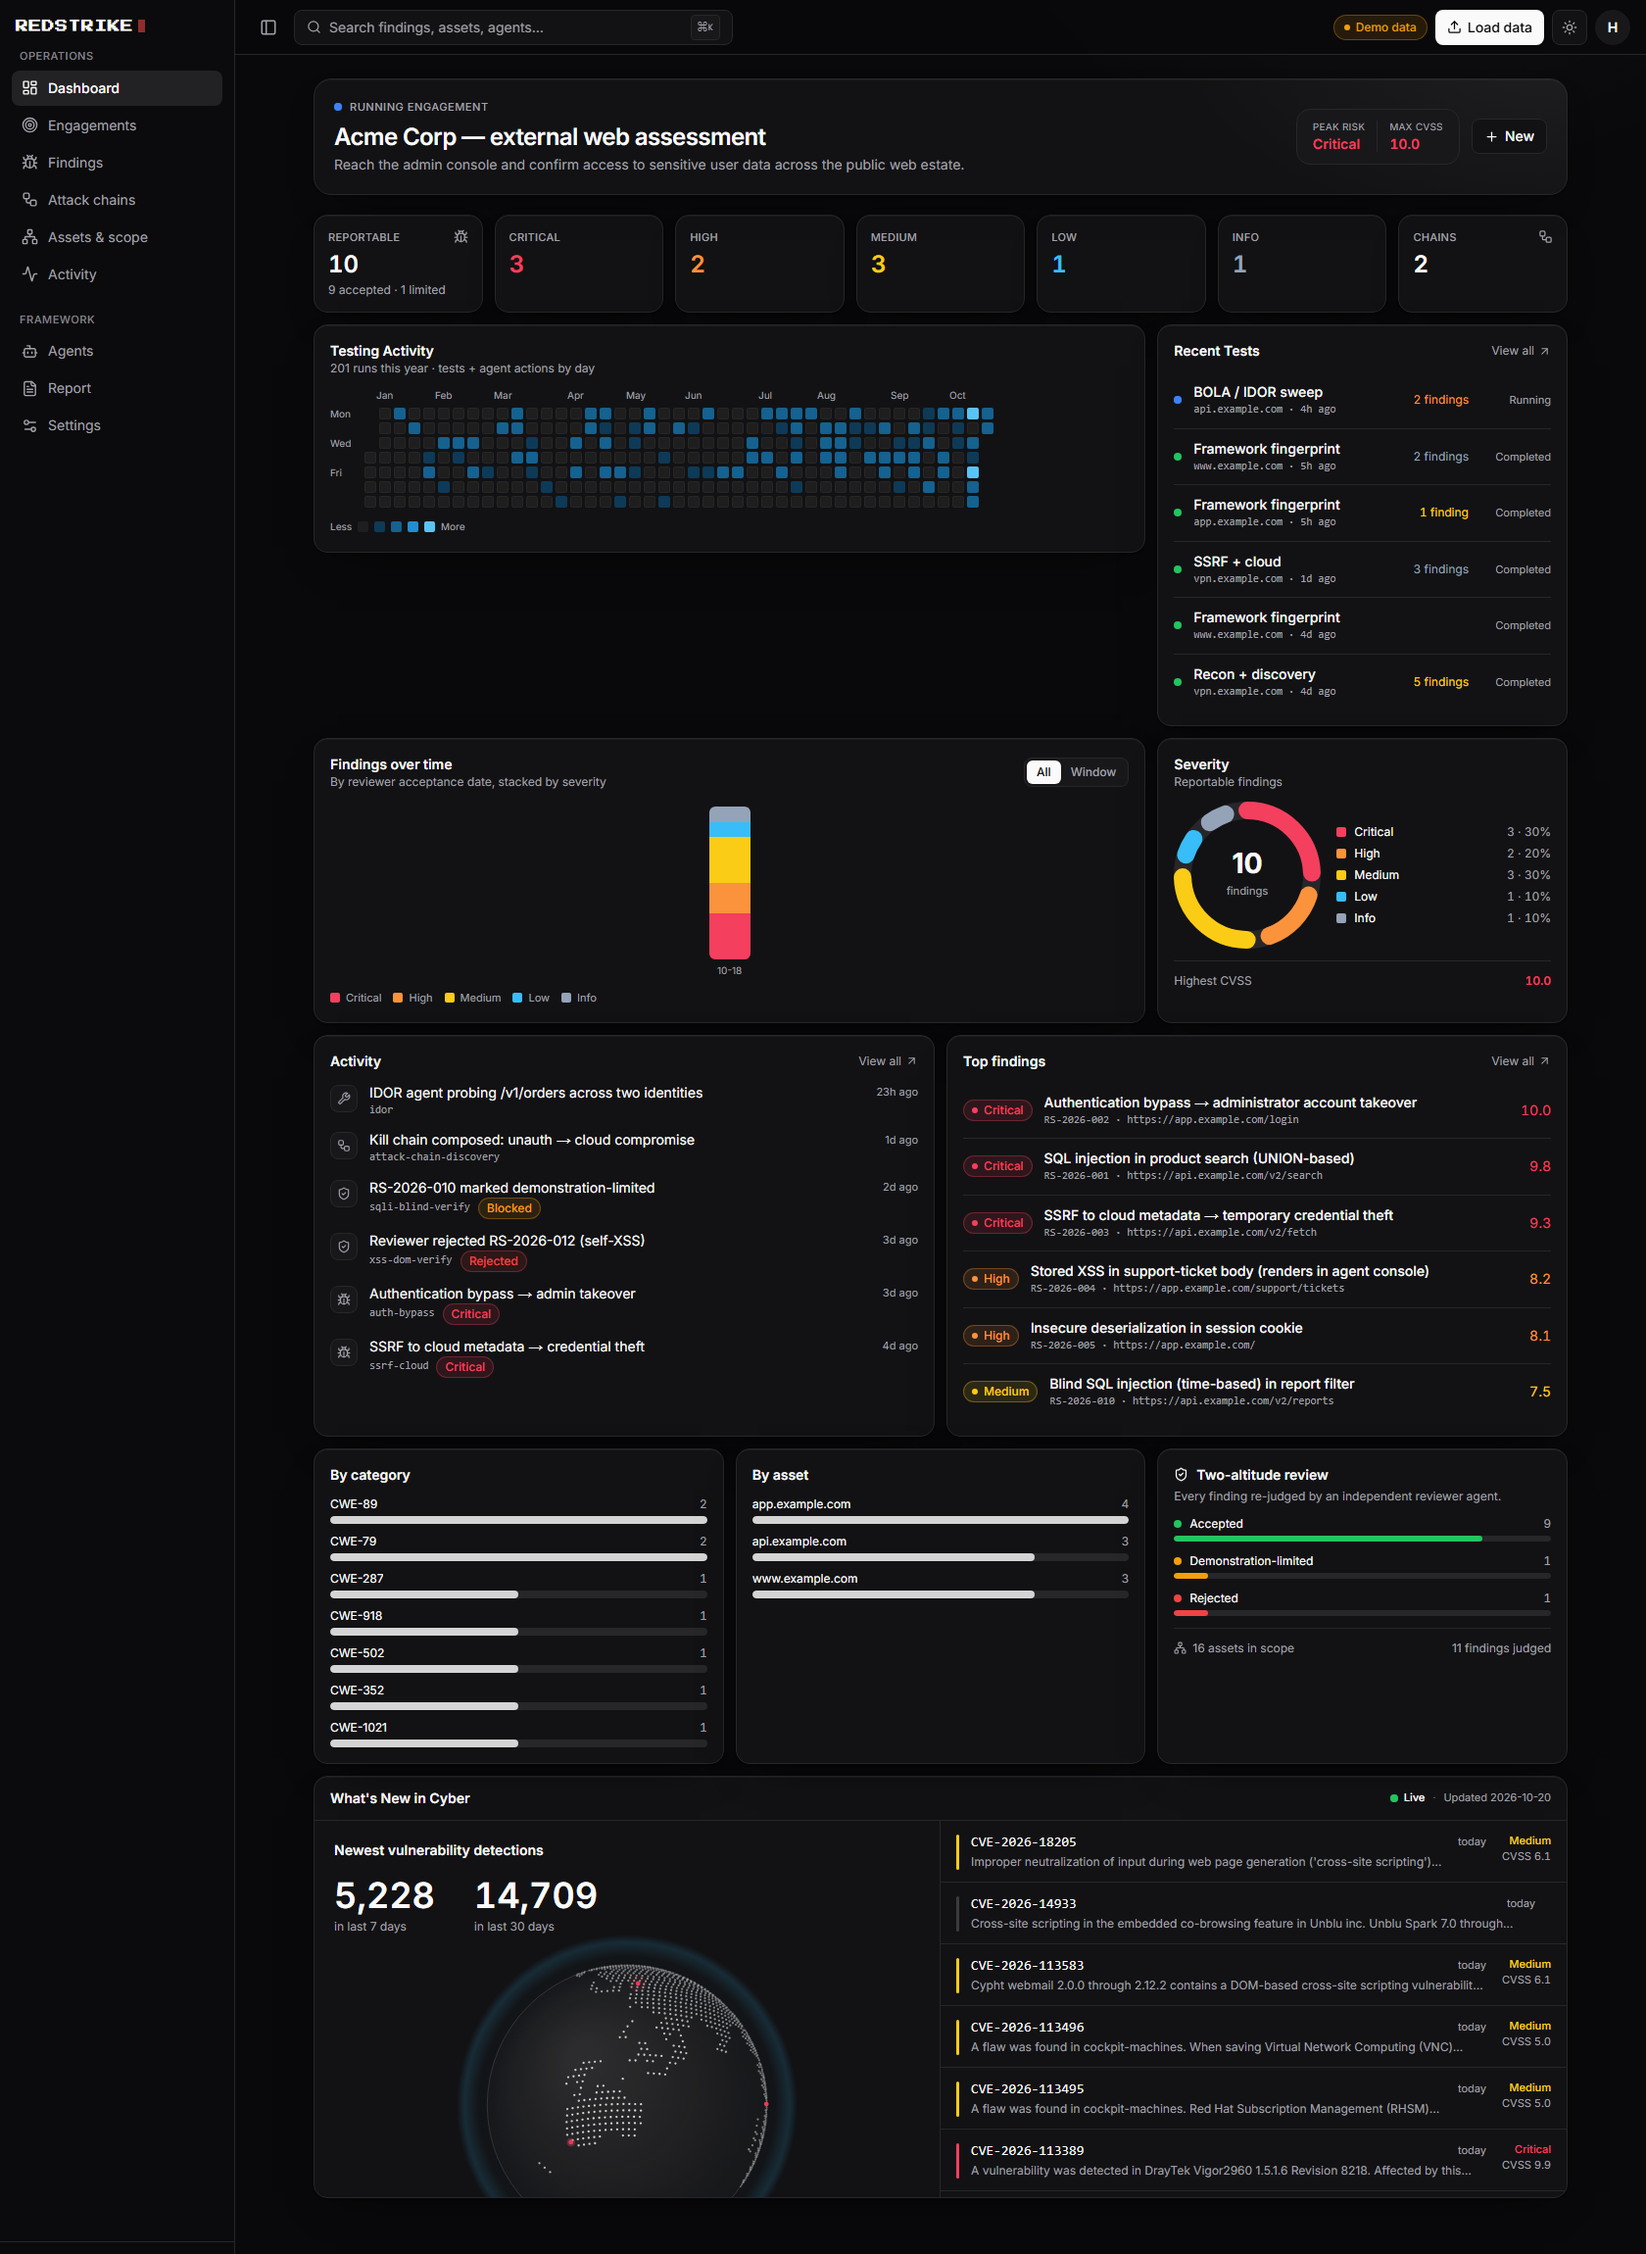
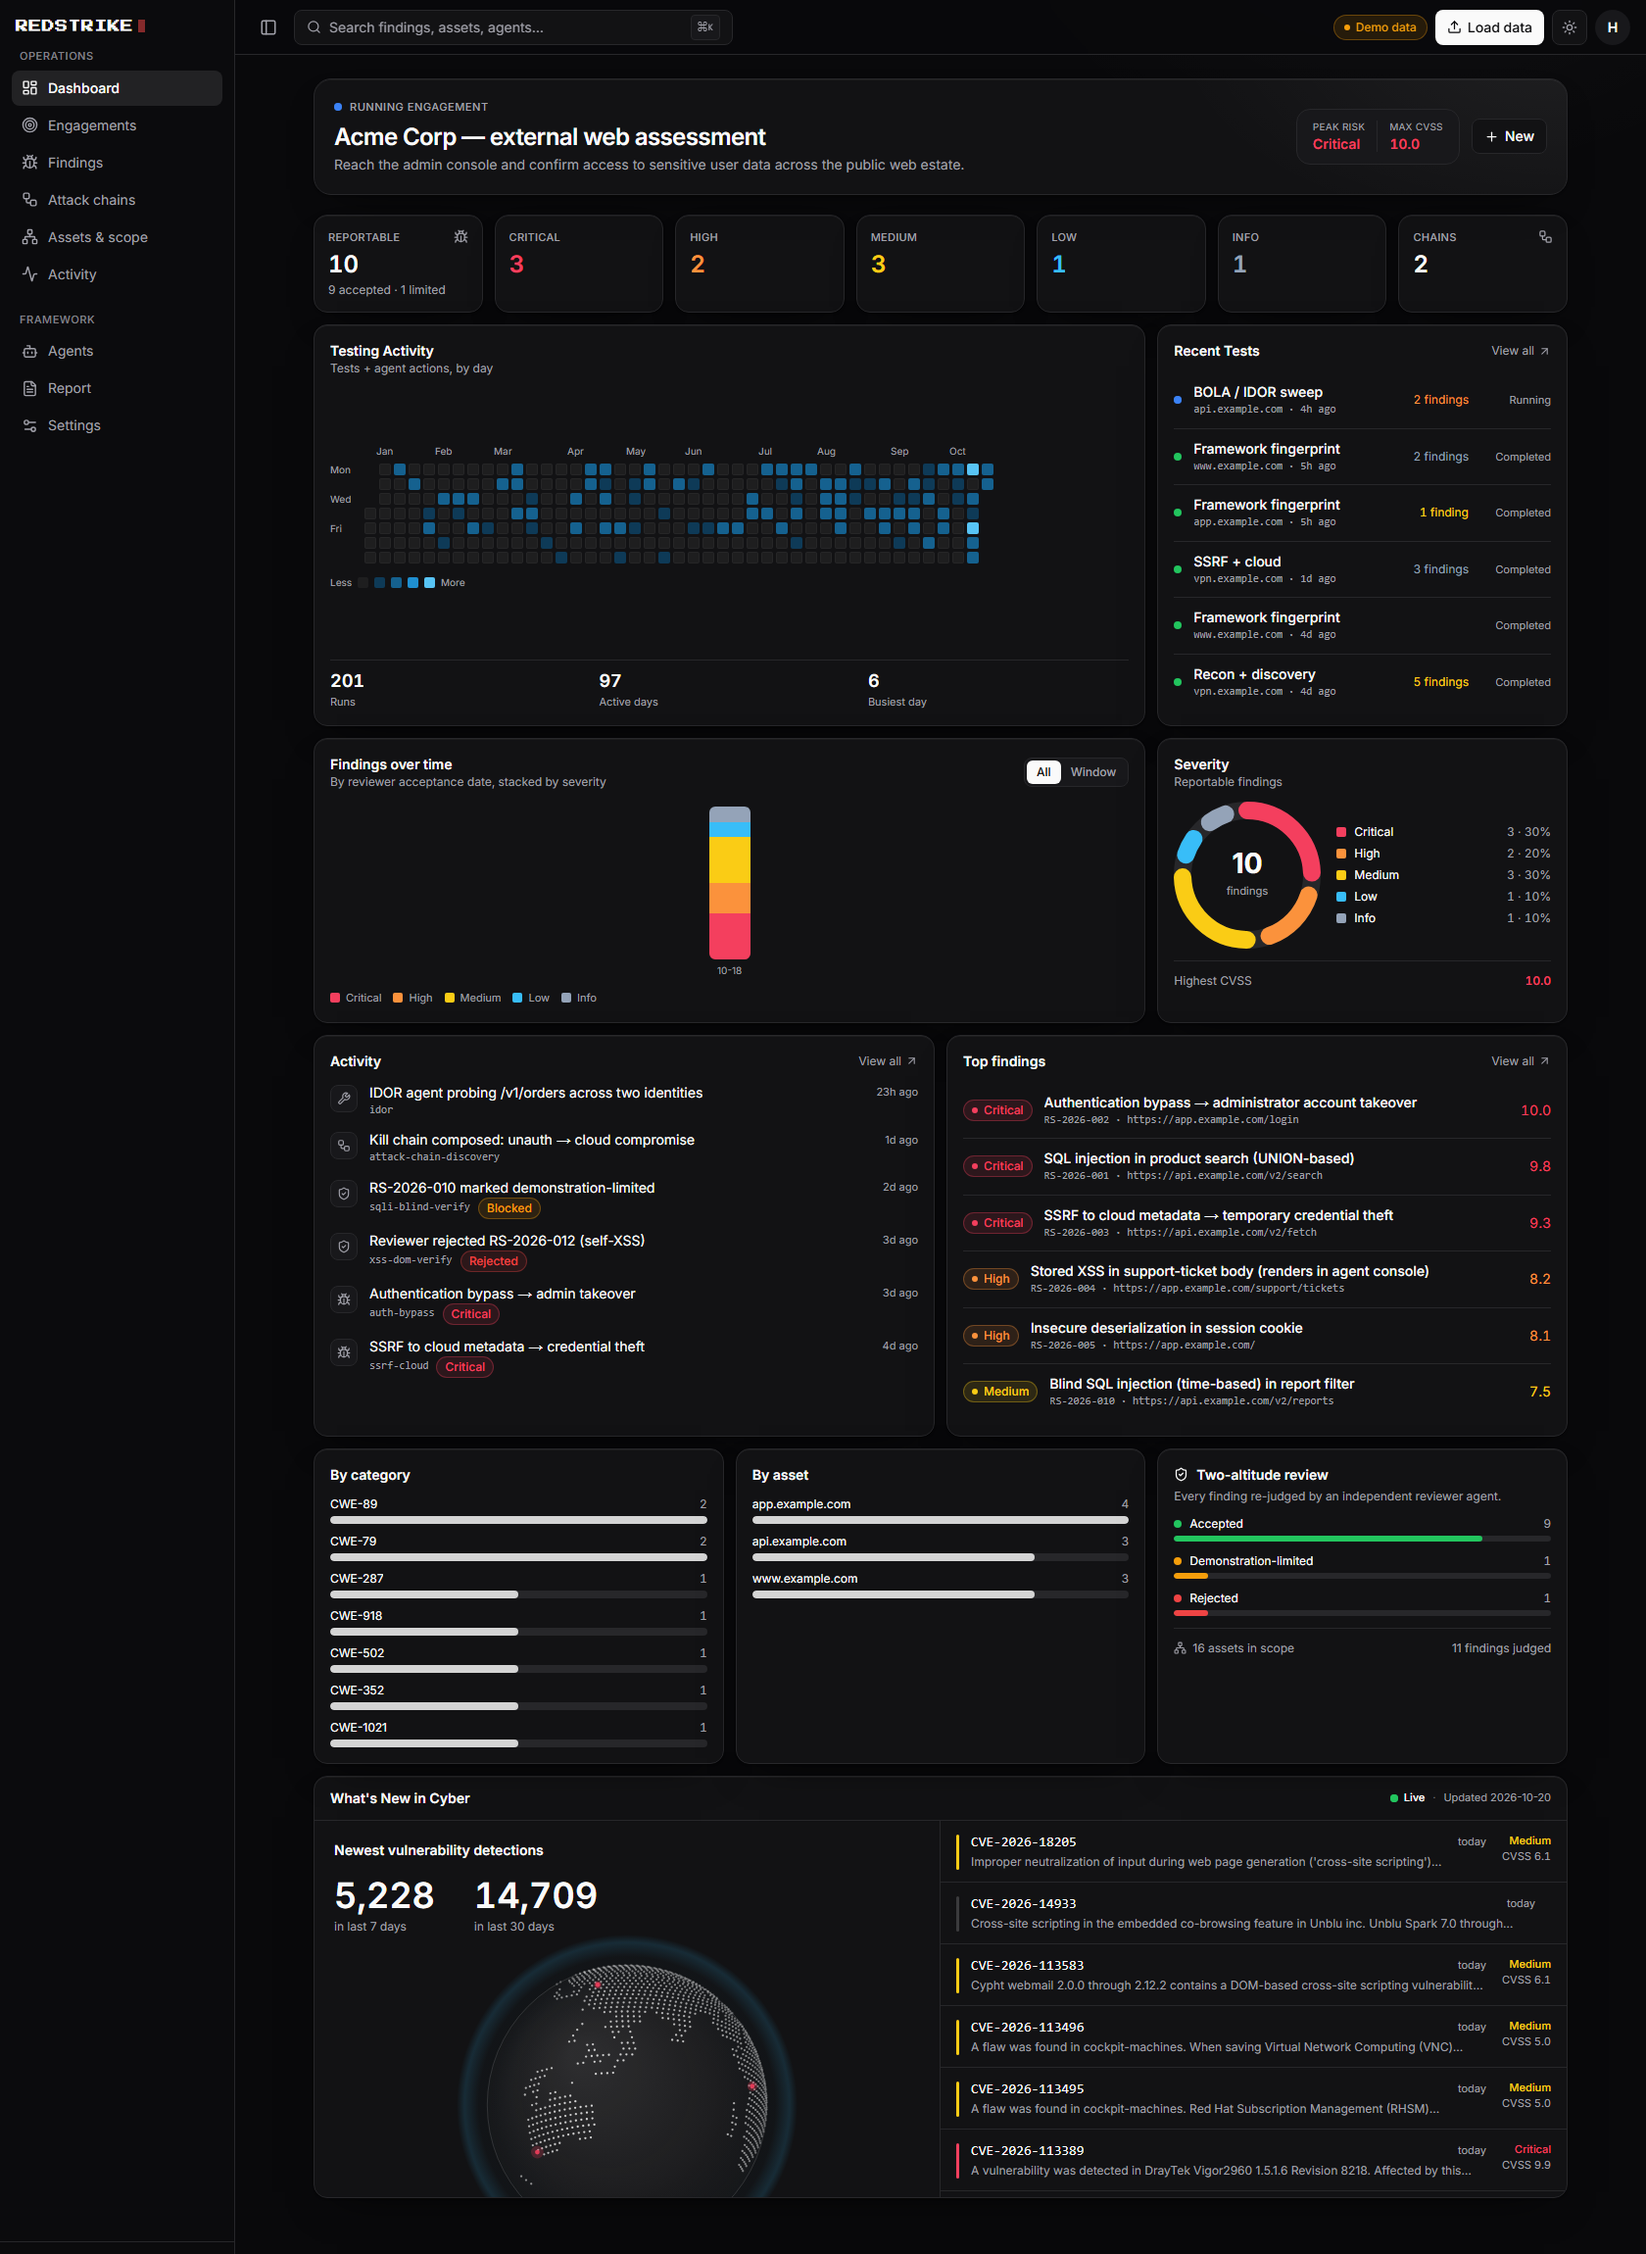
fix(console): close the gap under Testing Activity
The Testing Activity / Recent Tests row stretches to the taller card
(Recent Tests), which left dead space under the shorter heatmap before
"Findings over time". Make the Testing Activity card fill its cell
(flex h-full): the heatmap is centered and a Runs / Active days /
Busiest day stats footer is pinned to the bottom, so both cards align
and the row reads as intentional. Refreshed the README screenshot.

diff --git a/console/components/dashboard/TestingActivity.tsx b/console/components/dashboard/TestingActivity.tsx
@@ -28,7 +28,7 @@ function mondayOf(d: Date) {
  * Jan → today of the most recent year in the data. Empty data → a faint grid.
  */
 export function TestingActivity({ tests, activity }: { tests: TestRun[]; activity: ActivityEvent[] }) {
-  const { weeks, monthLabels, max, total } = useMemo(() => {
+  const { weeks, monthLabels, max, total, activeDays, busiest } = useMemo(() => {
     const counts = new Map<string, number>();
     const bump = (iso?: string) => {
       if (!iso) return;
@@ -70,19 +70,26 @@ export function TestingActivity({ tests, activity }: { tests: TestRun[]; activit
       weeks.push(week);
     }
     const vals = [...counts.values()];
-    return { weeks, monthLabels, max: Math.max(1, ...vals), total: vals.reduce((a, b) => a + b, 0) };
+    return {
+      weeks,
+      monthLabels,
+      max: Math.max(1, ...vals),
+      total: vals.reduce((a, b) => a + b, 0),
+      activeDays: counts.size,
+      busiest: vals.length ? Math.max(...vals) : 0,
+    };
   }, [tests, activity]);
 
   const level = (c: number) => (c <= 0 ? 0 : Math.min(4, 1 + Math.floor((c / max) * 3.999)));
 
   return (
-    <Card className="p-4">
+    <Card className="flex h-full flex-col p-4">
       <div className="mb-3">
         <h2 className="text-sm font-semibold">Testing Activity</h2>
-        <p className="text-xs text-muted">{total} runs this year · tests + agent actions by day</p>
+        <p className="text-xs text-muted">Tests + agent actions, by day</p>
       </div>
 
-      <div className="overflow-x-auto scroll-thin">
+      <div className="my-auto overflow-x-auto scroll-thin">
         <div className="inline-block">
           {/* month labels */}
           <div className="relative mb-1 ml-8 h-4 text-[10px] text-muted" style={{ width: weeks.length * PITCH }}>
@@ -130,6 +137,21 @@ export function TestingActivity({ tests, activity }: { tests: TestRun[]; activit
           </div>
         </div>
       </div>
+
+      <div className="mt-3 grid grid-cols-3 gap-2 border-t border-line pt-3">
+        <Stat label="Runs" value={total} />
+        <Stat label="Active days" value={activeDays} />
+        <Stat label="Busiest day" value={busiest} />
+      </div>
     </Card>
+  );
+}
+
+function Stat({ label, value }: { label: string; value: number }) {
+  return (
+    <div>
+      <div className="text-lg font-semibold leading-none tabular-nums">{value.toLocaleString("en-US")}</div>
+      <div className="mt-1 text-[11px] text-muted">{label}</div>
+    </div>
   );
 }
